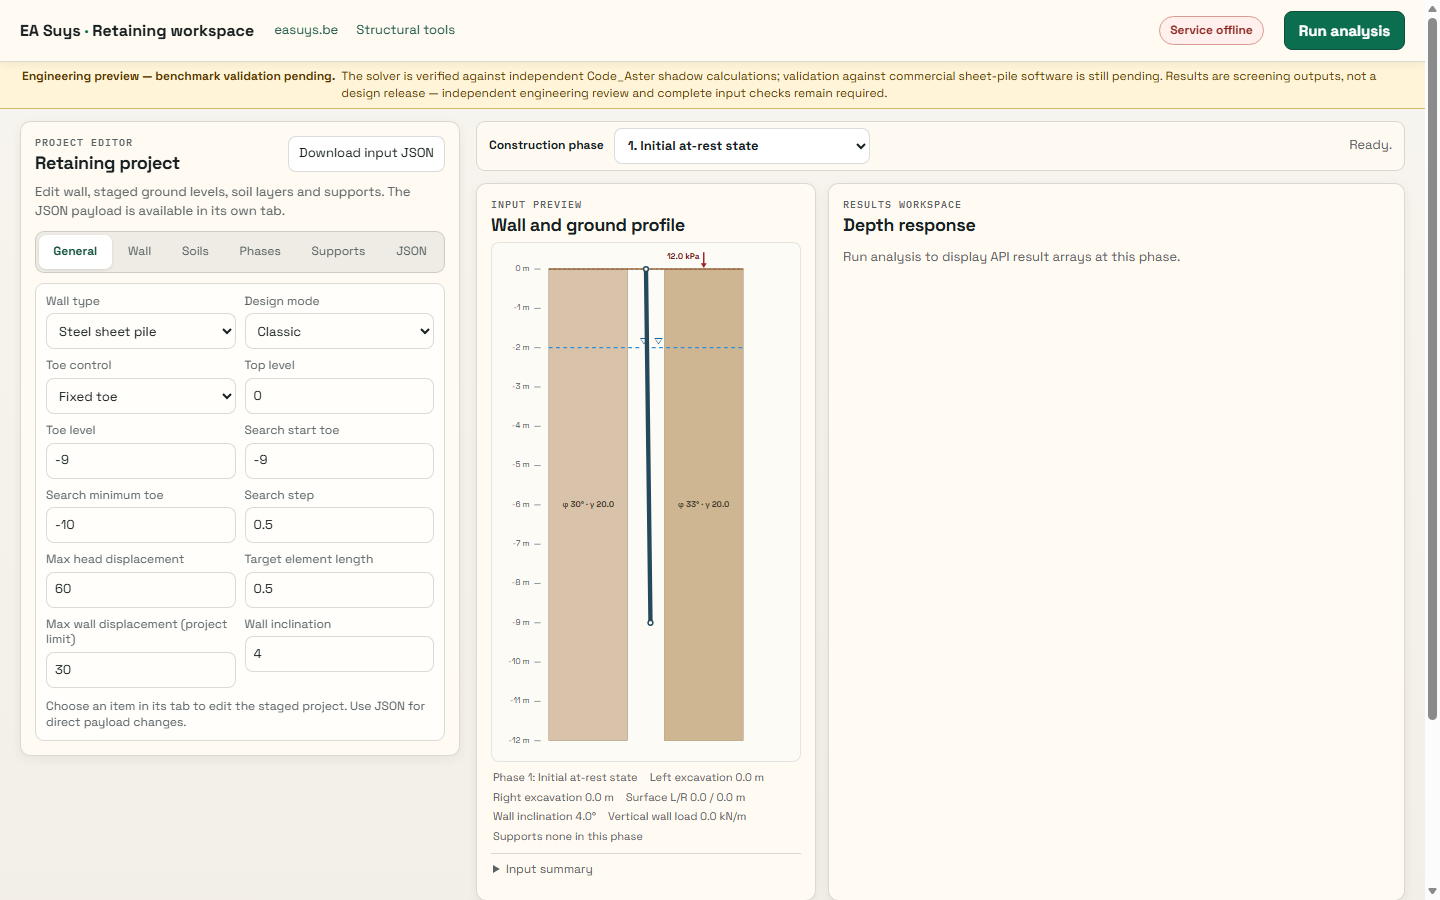
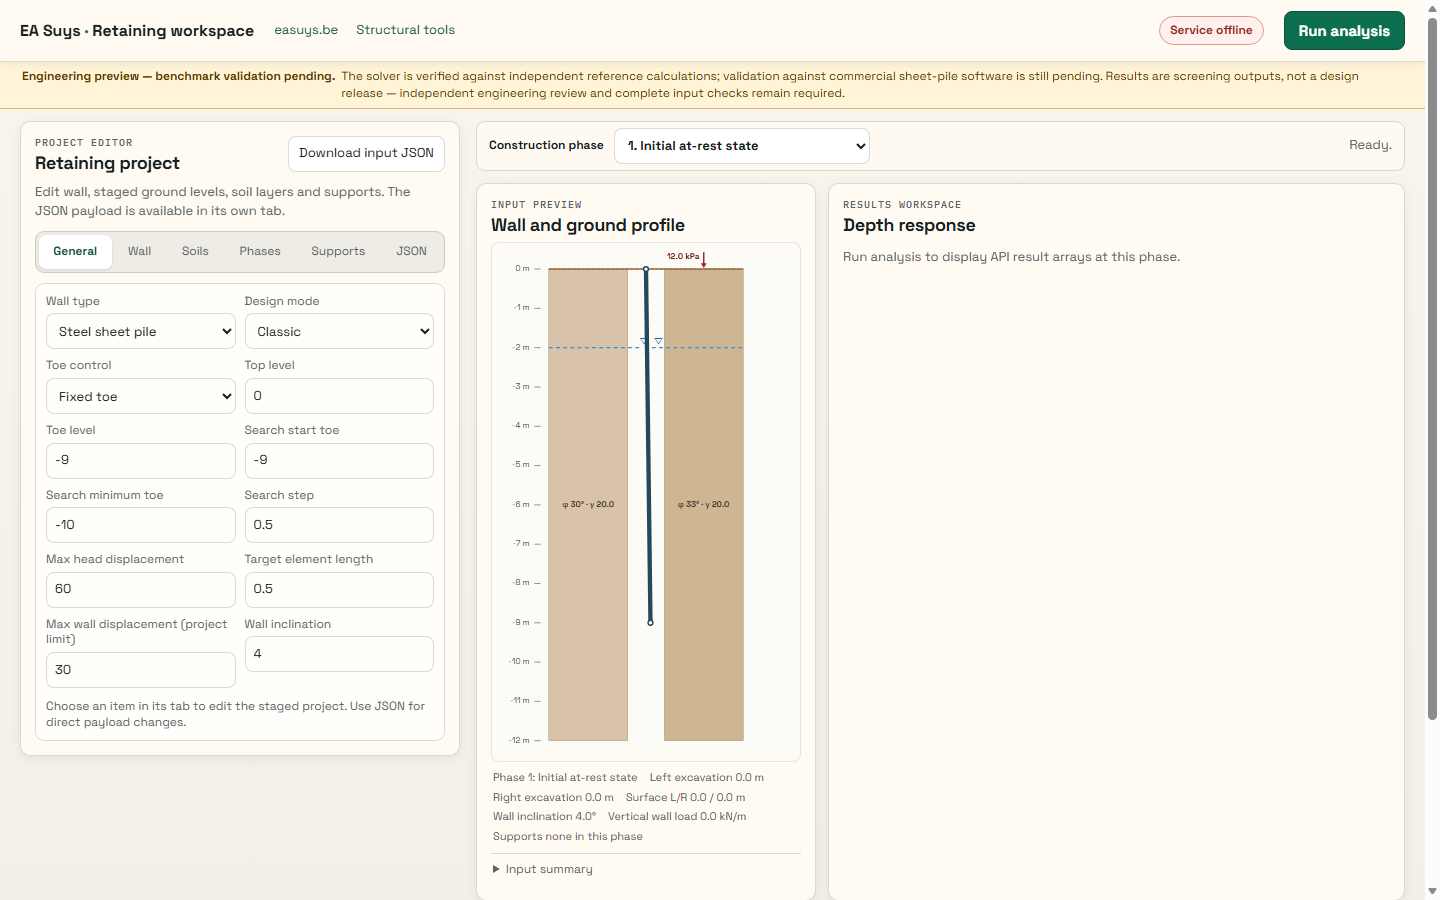
docs: neutral wording for the solver verification notice

Changed region(s): [[0.25, 0.0622, 0.9375, 0.1244]]

diff --git a/index.html b/index.html
@@ -25,7 +25,7 @@
 
     <aside class="validation-notice" role="note" aria-label="Engineering preview limitation">
       <strong>Engineering preview — benchmark validation pending.</strong>
-      <span>The solver is verified against independent Code_Aster shadow calculations; validation against commercial sheet-pile software is still pending. Results are screening outputs, not a design release — independent engineering review and complete input checks remain required.</span>
+      <span>The solver is verified against independent reference calculations; validation against commercial sheet-pile software is still pending. Results are screening outputs, not a design release — independent engineering review and complete input checks remain required.</span>
     </aside>
 
     <main class="workspace">
